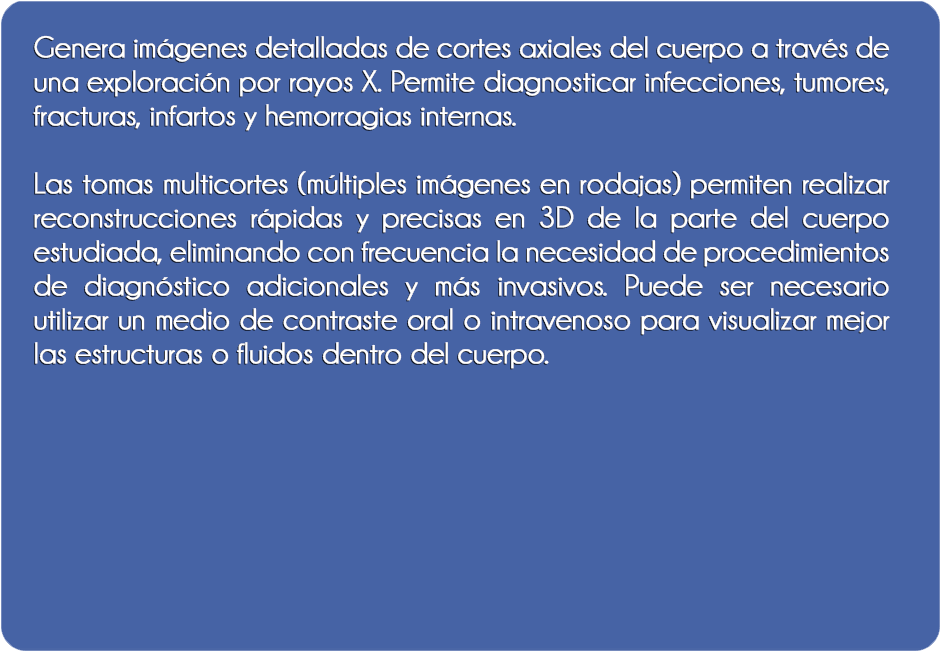
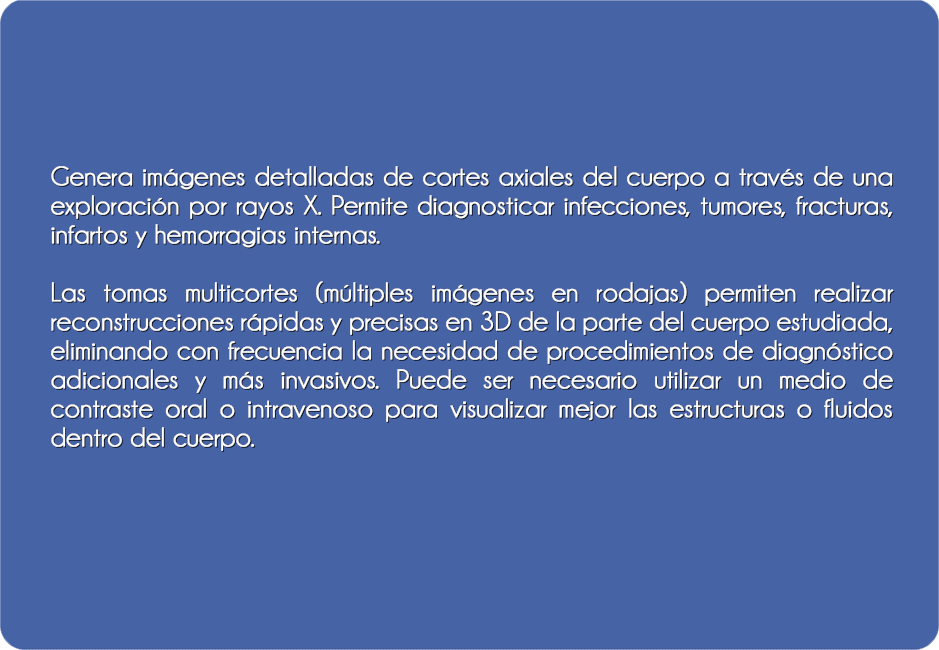
changes 01/07/2015

diff --git a/css/style.min.css b/css/style.min.css
@@ -86,7 +86,7 @@
 .imgPageMostrar.imgPage006{background:url('../img/8_9/rayosx/foto_big.png')!important}.imgBtnTen{cursor:pointer;position:absolute;top:10%}.bgDown{-webkit-transform:translateY(2000px);-webkit-transition:-webkit-transform .4s}
 .tituloLeft,.tituloRight{-webkit-transform:translateY(-2000px);-webkit-transition:-webkit-transform .4s}.bgDownMostrar,.tituloMostrar{-webkit-transform:translateY(0)}
 .bg{-webkit-transition:-webkit-transform .4s;position:absolute;top:12%}.p10 .bg{-webkit-transform:translateX(-1000px)}.p11 .bg{-webkit-transform:translateX(1000px)}
-.p10 .bg.bgMostrar,.p11 .bg.bgMostrar{-webkit-transform:translateY(0);position:absolute;top:8.5%}.p10 .bg,.tituloLeft{right:0}.p11 .bg,.tituloRight{left:0}
+.p10 .bg.bgMostrar,.p11 .bg.bgMostrar{-webkit-transform:translateY(0);position:absolute;top:11.5%}.p10 .bg,.tituloLeft{right:0}.p11 .bg,.tituloRight{left:0}
 .tituloLeft,.tituloRight{position:absolute;top:4%;z-index:1}.tituloMostrar{cursor:pointer}.title-left{position:absolute;right:0;top:4%}.title-right{left:0;position:absolute;top:4%}
 .imagesGallery{left:9%;position:absolute;top:13%}.delay001{-webkit-animation-delay:.8s}.delay002{-webkit-animation-delay:.9s}.delay003{-webkit-animation-delay:1.1s}
 .delay004{-webkit-animation-delay:1.3s}.delay005{-webkit-animation-delay:1.5s}.delay006{-webkit-animation-delay:1.7s}.btnMenuGallery{-webkit-transform:translate(1000px,105%);-webkit-transition:-webkit-transform .4s;position:absolute}

diff --git a/css/style.css b/css/style.css
@@ -1273,7 +1273,7 @@ html,body {
 .p10 .bg.bgMostrar, .p11 .bg.bgMostrar {
 	-webkit-transform: translateY(0);
     position: absolute;
-	top: 8.5%;
+	top: 11.5%;
 }
 
 .p10 .bg, .tituloLeft {
